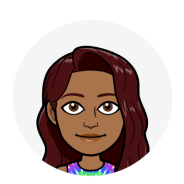
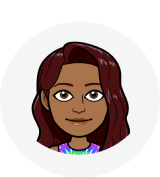
fix top nav

Changed region(s): [[0.1875, 0.226, 0.8438, 0.9605]]

diff --git a/src/navigation/HugStack.js b/src/navigation/HugStack.js
@@ -1,14 +1,26 @@
+import bitmoji from "../../assets/top_nav_bar/new_bitmoji.png";
+import search from "../../assets/top_nav_bar/new_search.png";
+import addFriend from "../../assets/top_nav_bar/new_addfriend.png";
+import more from "../../assets/top_nav_bar/new_more.png";
+
 import React from "react";
 import { createStackNavigator } from "@react-navigation/stack";
 
-import { StyleSheet, Text, View, TouchableOpacity, Image, Button } from 'react-native';
+import {
+  StyleSheet,
+  Text,
+  View,
+  TouchableOpacity,
+  Image,
+  Button,
+} from "react-native";
 import {
   HeaderButtons,
   HeaderButton,
   Item,
   HiddenItem,
   OverflowMenu,
-} from 'react-navigation-header-buttons';
+} from "react-navigation-header-buttons";
 import CustomHeaderButton from "../components/CustomHeaderButton";
 import { getAuth, signOut } from "firebase/auth";
 
@@ -22,12 +34,12 @@ const Stack = createStackNavigator();
 export default function HugStack({ navigation }) {
   const auth = getAuth();
   const user = auth.currentUser;
-  
+
   let screenOptions = {
     tabBarShowLabel: false,
     headerLeft: () => (
       <HeaderButtons HeaderButtonComponent={CustomHeaderButton}>
-        <TouchableOpacity style={styles.nav_icon} 
+        <TouchableOpacity
           onPress={() => {
             signOut(auth)
               .then(() => {
@@ -38,69 +50,102 @@ export default function HugStack({ navigation }) {
                 // An error happened.
                 // should we do something with that error??
               });
-          }}>
-          <Image source={require("../../assets/top_nav_bar/avatar.png")}/>
+          }}
+        >
+          <Image
+            source={bitmoji}
+            style={{ height: 46, width: 46, marginLeft: 10, marginRight: 4 }}
+          />
         </TouchableOpacity>
-        <TouchableOpacity style={styles.nav_icon} onPress={()=>{alert("Search!")}}>
-          <Image source={require("../../assets/top_nav_bar/search.png")}/>
-        </TouchableOpacity>
-      </HeaderButtons>
-    ),
-    
-    headerRight: () => (
-      <HeaderButtons HeaderButtonComponent={CustomHeaderButton}>
-        <TouchableOpacity style={styles.nav_icon} onPress={()=>{alert("Add friend")}}>
-          <Image source={require("../../assets/top_nav_bar/add_friend.png")}/>
-        </TouchableOpacity>
-        <TouchableOpacity style={styles.nav_icon} onPress={()=>{alert("More!")}}>
-          <Image source={require("../../assets/top_nav_bar/more.png")}/>
+        <TouchableOpacity
+          style={styles.nav_icon}
+          onPress={() => {
+            alert("Search!");
+          }}
+        >
+          <Image source={search} style={{ height: 40, width: 40 }} />
         </TouchableOpacity>
       </HeaderButtons>
-      
     ),
 
+    headerRight: () => (
+      <HeaderButtons HeaderButtonComponent={CustomHeaderButton}>
+        <TouchableOpacity
+          style={styles.nav_icon}
+          onPress={() => {
+            alert("Add friend");
+          }}
+        >
+          <Image source={addFriend} style={{ height: 40, width: 40 }} />
+        </TouchableOpacity>
+        <TouchableOpacity
+          style={styles.nav_icon}
+          onPress={() => {
+            alert("More!");
+          }}
+        >
+          <Image source={more} style={{ height: 40, width: 40 }} />
+        </TouchableOpacity>
+      </HeaderButtons>
+    ),
   };
 
   let HugTopNav = {
     tabBarShowLabel: false,
     headerLeft: () => (
       <HeaderButtons HeaderButtonComponent={CustomHeaderButton}>
-        <TouchableOpacity style={styles.nav_icon} onPress={() => {navigation.navigate("Stories");}}>
-          <Image source={require("../../assets/top_nav_bar/backButton.png")}/>
+        <TouchableOpacity
+          style={styles.nav_icon}
+          onPress={() => {
+            navigation.navigate("Stories");
+          }}
+        >
+          <Image source={require("../../assets/top_nav_bar/backButton.png")} />
         </TouchableOpacity>
       </HeaderButtons>
-    ),
-    
-    headerRight: () => (
-      <HeaderButtons HeaderButtonComponent={CustomHeaderButton}>
-        <TouchableOpacity style={styles.nav_icon} onPress={()=>{alert("More!")}}>
-          <Image source={require("../../assets/top_nav_bar/more.png")}/>
-        </TouchableOpacity>
-      </HeaderButtons>
-      
     ),
 
+    headerRight: () => (
+      <HeaderButtons HeaderButtonComponent={CustomHeaderButton}>
+        <TouchableOpacity
+          style={styles.nav_icon}
+          onPress={() => {
+            alert("More!");
+          }}
+        >
+          <Image source={require("../../assets/top_nav_bar/more.png")} />
+        </TouchableOpacity>
+      </HeaderButtons>
+    ),
   };
 
   let PartnerTopNav = {
     tabBarShowLabel: false,
     headerLeft: () => (
       <HeaderButtons HeaderButtonComponent={CustomHeaderButton}>
-        <TouchableOpacity style={styles.nav_icon} onPress={() => {navigation.navigate("Hug");}}>
-          <Image source={require("../../assets/top_nav_bar/backButton.png")}/>
+        <TouchableOpacity
+          style={styles.nav_icon}
+          onPress={() => {
+            navigation.navigate("Hug");
+          }}
+        >
+          <Image source={require("../../assets/top_nav_bar/backButton.png")} />
         </TouchableOpacity>
       </HeaderButtons>
-    ),
-    
-    headerRight: () => (
-      <HeaderButtons HeaderButtonComponent={CustomHeaderButton}>
-        <TouchableOpacity style={styles.nav_icon} onPress={()=>{alert("More!")}}>
-          <Image source={require("../../assets/top_nav_bar/more.png")}/>
-        </TouchableOpacity>
-      </HeaderButtons>
-      
     ),
 
+    headerRight: () => (
+      <HeaderButtons HeaderButtonComponent={CustomHeaderButton}>
+        <TouchableOpacity
+          style={styles.nav_icon}
+          onPress={() => {
+            alert("More!");
+          }}
+        >
+          <Image source={require("../../assets/top_nav_bar/more.png")} />
+        </TouchableOpacity>
+      </HeaderButtons>
+    ),
   };
 
   return (
@@ -110,11 +155,7 @@ export default function HugStack({ navigation }) {
         component={SnapHugsScreen}
         options={screenOptions}
       />
-       <Stack.Screen
-        name="Hug"
-        component={HugScreen}
-        options={HugTopNav}
-      />
+      <Stack.Screen name="Hug" component={HugScreen} options={HugTopNav} />
       <Stack.Screen
         name="Partner"
         component={PartnerScreen}
@@ -127,9 +168,9 @@ export default function HugStack({ navigation }) {
 const styles = StyleSheet.create({
   container: {
     flex: 1,
-    backgroundColor: '#fff',
-    alignItems: 'center',
-    justifyContent: 'center',
+    backgroundColor: "#fff",
+    alignItems: "center",
+    justifyContent: "center",
   },
   nav_icon: {
     borderRadius: 10,

diff --git a/src/navigation/StoriesStack.js b/src/navigation/StoriesStack.js
@@ -1,4 +1,8 @@
 import bitmoji from "../../assets/top_nav_bar/new_bitmoji.png";
+import search from "../../assets/top_nav_bar/new_search.png";
+import addFriend from "../../assets/top_nav_bar/new_addfriend.png";
+import more from "../../assets/top_nav_bar/new_more.png";
+
 import React from "react";
 import { createStackNavigator } from "@react-navigation/stack";
 
@@ -37,7 +41,6 @@ export default function StoriesStack({ navigation }) {
     headerLeft: () => (
       <HeaderButtons HeaderButtonComponent={CustomHeaderButton}>
         <TouchableOpacity
-          style={styles.nav_icon}
           onPress={() => {
             signOut(auth)
               .then(() => {
@@ -50,7 +53,10 @@ export default function StoriesStack({ navigation }) {
               });
           }}
         >
-          <Image source={bitmoji} style={{ height: 46, width: 46 }} />
+          <Image
+            source={bitmoji}
+            style={{ height: 46, width: 46, marginLeft: 10, marginRight: 4 }}
+          />
         </TouchableOpacity>
         <TouchableOpacity
           style={styles.nav_icon}
@@ -58,7 +64,7 @@ export default function StoriesStack({ navigation }) {
             alert("Search!");
           }}
         >
-          <Image source={require("../../assets/top_nav_bar/search.png")} />
+          <Image source={search} style={{ height: 40, width: 40 }} />
         </TouchableOpacity>
       </HeaderButtons>
     ),
@@ -71,7 +77,7 @@ export default function StoriesStack({ navigation }) {
             alert("Add friend");
           }}
         >
-          <Image source={require("../../assets/top_nav_bar/add_friend.png")} />
+          <Image source={addFriend} style={{ height: 40, width: 40 }} />
         </TouchableOpacity>
         <TouchableOpacity
           style={styles.nav_icon}
@@ -79,7 +85,7 @@ export default function StoriesStack({ navigation }) {
             alert("More!");
           }}
         >
-          <Image source={require("../../assets/top_nav_bar/more.png")} />
+          <Image source={more} style={{ height: 40, width: 40 }} />
         </TouchableOpacity>
       </HeaderButtons>
     ),

diff --git a/src/navigation/UserStack.js b/src/navigation/UserStack.js
@@ -25,7 +25,7 @@ import { getAuth, signOut } from "firebase/auth";
 // Screens
 import MapScreen from "../screens/MapScreen";
 import CameraScreen from "../screens/CameraScreen";
-import CameraScreenv2 from "../screens/CameraScreen";
+import CameraScreenv2 from "../screens/CameraScreenv2";
 import StoriesScreen from "../screens/StoriesScreen";
 import SpotlightScreen from "../screens/SpotlightScreen";
 import HugScreen from "../screens/HugScreen";
